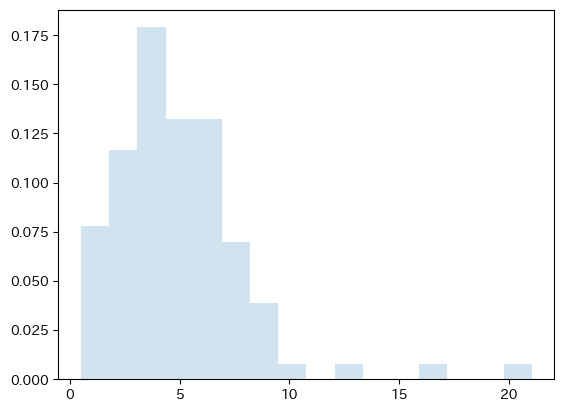
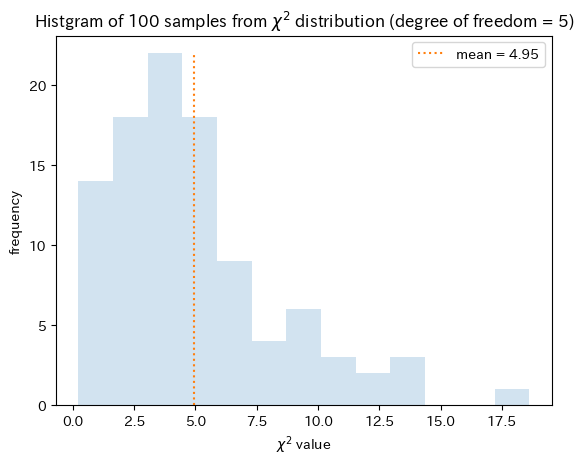
sample size - 正規性の検討

Changed region(s): [[0.0, 0.0, 0.9947, 0.9903]]

diff --git a/stat/central limit theorem and sample size.md b/stat/central limit theorem and sample size.md
@@ -24,26 +24,50 @@
 正規分布に持ち込めば、様々な統計処理が容易となる。
 1σ、2σなど、説明可能な閾値を設定したり、サンプルサイズを理論的に計算することも可能である。
 また、平均を計算する処理には高い演算性能やストレージは不要であり、末端機器にも搭載可能である。
+さらに、末端機器で前処理を済ませれば、上位システム側の負担も軽減できる。
 
 ## 本稿の内容
 
-本稿では上記に基づき、次の事項を確認する。資料としてPythonのサンプルコードを添付する。
+本稿では上記に基づき、次の2項目を確認する。資料としてPythonのサンプルコードを添付する。
 
-* 中心極限定理の確認
-* 母平均の仮説検定におけるサンプルサイズの計算
+1. 中心極限定理の実例
+2. 母平均の仮説検定におけるサンプルサイズの計算
 
-# 以降、作成中
+# 中心極限定理の実例
 
-# 中心極限定理の確認
-
-## サンプルデータと正規性の検討
+## サンプルデータ
 
 中心極限定理を確かめるため、正規分布以外のデータを使う。ここでは、例としてカイ二乗分布を使う。
 
-![Q-Q plot](./central%20limit%20theorem%20and%20sample%20size%20data/hist-chi2.png)
+データ(1) 自由度5のカイ二乗分布から100サンプル取得し、平均値を計算する。
 
+![hist-chi2](./central%20limit%20theorem%20and%20sample%20size%20data/hist-chi2.png)
+
+データ(2) 上記の平均値の計算を30000回繰り返す。平均値のヒストグラムの例を示す。
+
+![hist-chi2-mean](./central%20limit%20theorem%20and%20sample%20size%20data/hist-chi2-mean.png)
+
+## 正規性の検討
+
+中心極限定理によれば、サンプルサイズが増えるに従い、平均値の分布は正規分布に近づく。
+
+データ(2)の歪度と頻度を計算すると
+
+歪度 = 0.12
+
+尖度 = 0.05
+
+いずれも0に近く、正規分布と見てよいと判断する。
+
+加えて、Q-Qプロットを確認する。
 
 ![Q-Q plot](./central%20limit%20theorem%20and%20sample%20size%20data/Q-Q%20plot.png)
+
+ほぼ直線であり、この点においても、データ(2)の分布は正規分布と見てよい。
+
+以上、中心極限定理の実例を確認した。
+
+# 以降、作成中
 
 # 母平均の仮説検定におけるサンプルサイズの計算
 
